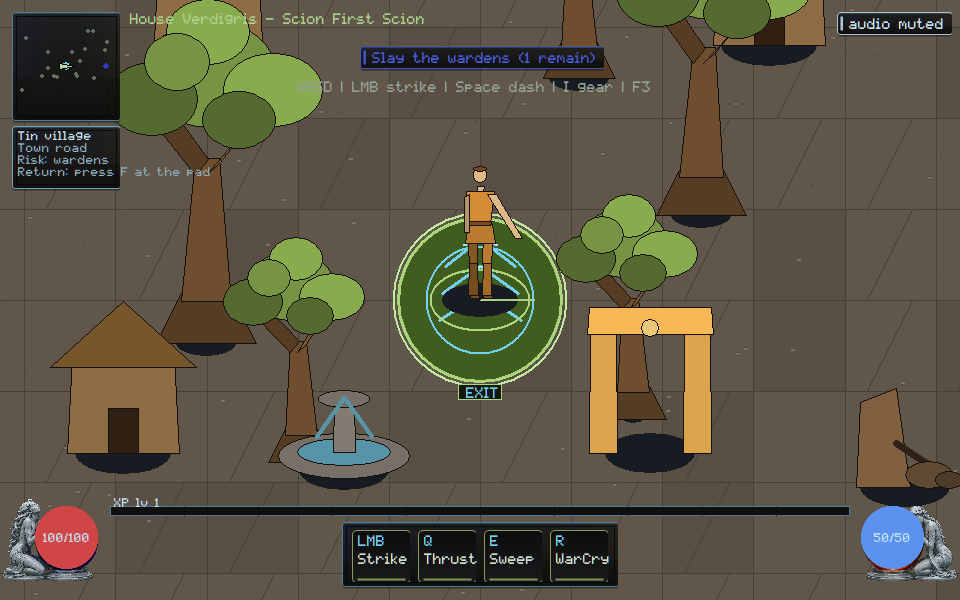
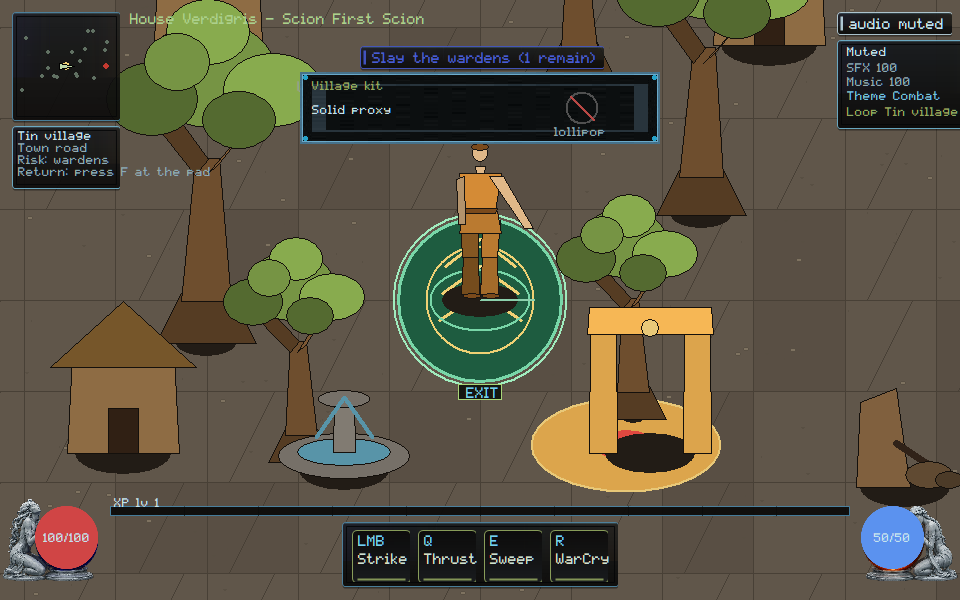
native: name bronze family, village kit, and world hold so magenta, lollipops, and paper dolls cannot certify
Owner strips paint Cooked CC0, Solid proxy, and Ack equip. TOOLS-003 and ITEM identity stay with Kimi.

Changed region(s): [[0.3125, 0.12, 0.6875, 0.66], [0.5312, 0.66, 0.75, 0.84], [0.875, 0.06, 1.0, 0.24]]

diff --git a/native/client/main.cpp b/native/client/main.cpp
@@ -487,6 +487,9 @@ struct ClientState {
   bool death_disconnect_review_strip = false;
   bool build_fixtures_review_strip = false;
   bool headless_contract_review_strip = false;
+  bool bronze_stone_review_strip = false;
+  bool kit_chunk_review_strip = false;
+  bool held_item_review_strip = false;
   bool debug_overlay = false;
   // Last full paint_scene duration in milliseconds (F3 overlay); the honest
   // per-frame budget readout that catches presentation-cost regressions.
@@ -6826,6 +6829,123 @@ void paint_headless_contract_review_strip(ClientState& state, HDC dc, const RECT
   SelectObject(dc, old_font);
 }
 
+void paint_bronze_stone_review_strip(ClientState& state, HDC dc, const RECT& bounds,
+                                     render::List& rl) {
+  if (!state.bronze_stone_review_strip) return;
+  const int s = hud_scale(static_cast<int>(bounds.bottom));
+  const int pane_w = 360 * s;
+  const int pane_h = 72 * s;
+  const int left = (static_cast<int>(bounds.right) - pane_w) / 2;
+  const int top = 72 * s;
+  RECT pane{left, top, left + pane_w, top + pane_h};
+  if (!draw_framekit_nine(state.billboards, dc, state.billboards.fk_panel, pane))
+    skin::panel(dc, pane, skin::kVerdigris, 235, 8.0f);
+  rl.push_back({render::Op::Hud, static_cast<double>(left),
+                static_cast<double>(top), 0.0, 1, "bronze-strip"});
+  SetBkMode(dc, TRANSPARENT);
+  HGDIOBJ old_font = SelectObject(dc, skin::font_small());
+  SetTextColor(dc, skin::kVerdigris);
+  const char* title = verdigris::art::bronze_stone::owner_bronze_stone_label();
+  TextOutA(dc, left + 12 * s, top + 8 * s, title, static_cast<int>(strlen(title)));
+  SetTextColor(dc, skin::kInk);
+  const char* cooked = verdigris::art::bronze_stone::owner_cooked_cc0_label();
+  TextOutA(dc, left + 12 * s, top + 32 * s, cooked, static_cast<int>(strlen(cooked)));
+  const int rx = left + pane_w - 78 * s;
+  const int ry = top + 36 * s;
+  ring_ellipse(dc, rx, ry, 16 * s, 16 * s, RGB(80, 80, 80), 2);
+  draw_line(dc, rx - 12 * s, ry - 12 * s, rx + 12 * s, ry + 12 * s, RGB(185, 72, 69),
+            2);
+  SetTextColor(dc, skin::kInkDim);
+  const char* rejected = "magenta";
+  TextOutA(dc, rx - 28 * s, top + pane_h - 18 * s, rejected,
+           static_cast<int>(strlen(rejected)));
+  rl.push_back({render::Op::Hud, static_cast<double>(left + 12 * s),
+                static_cast<double>(top + 8 * s), 0.0, 1, "art:bronze-stone"});
+  rl.push_back({render::Op::Hud, static_cast<double>(left + 12 * s),
+                static_cast<double>(top + 32 * s), 0.0, 1, "art:cooked-cc0"});
+  rl.push_back({render::Op::Hud, static_cast<double>(rx), static_cast<double>(ry),
+                0.0, 0, "art-strip:magenta-rejected"});
+  SelectObject(dc, old_font);
+}
+
+void paint_kit_chunk_review_strip(ClientState& state, HDC dc, const RECT& bounds,
+                                  render::List& rl) {
+  if (!state.kit_chunk_review_strip) return;
+  const int s = hud_scale(static_cast<int>(bounds.bottom));
+  const int pane_w = 360 * s;
+  const int pane_h = 72 * s;
+  const int left = (static_cast<int>(bounds.right) - pane_w) / 2;
+  const int top = 72 * s;
+  RECT pane{left, top, left + pane_w, top + pane_h};
+  if (!draw_framekit_nine(state.billboards, dc, state.billboards.fk_panel, pane))
+    skin::panel(dc, pane, skin::kVerdigris, 235, 8.0f);
+  rl.push_back({render::Op::Hud, static_cast<double>(left),
+                static_cast<double>(top), 0.0, 1, "kit-strip"});
+  SetBkMode(dc, TRANSPARENT);
+  HGDIOBJ old_font = SelectObject(dc, skin::font_small());
+  SetTextColor(dc, skin::kVerdigris);
+  const char* title = vector_art::owner_village_kit_label();
+  TextOutA(dc, left + 12 * s, top + 8 * s, title, static_cast<int>(strlen(title)));
+  SetTextColor(dc, skin::kInk);
+  const char* proxy = vector_art::owner_solid_proxy_label();
+  TextOutA(dc, left + 12 * s, top + 32 * s, proxy, static_cast<int>(strlen(proxy)));
+  const int rx = left + pane_w - 78 * s;
+  const int ry = top + 36 * s;
+  ring_ellipse(dc, rx, ry, 16 * s, 16 * s, RGB(80, 80, 80), 2);
+  draw_line(dc, rx - 12 * s, ry - 12 * s, rx + 12 * s, ry + 12 * s, RGB(185, 72, 69),
+            2);
+  SetTextColor(dc, skin::kInkDim);
+  const char* rejected = "lollipop";
+  TextOutA(dc, rx - 28 * s, top + pane_h - 18 * s, rejected,
+           static_cast<int>(strlen(rejected)));
+  rl.push_back({render::Op::Hud, static_cast<double>(left + 12 * s),
+                static_cast<double>(top + 8 * s), 0.0, 1, "kit:village"});
+  rl.push_back({render::Op::Hud, static_cast<double>(left + 12 * s),
+                static_cast<double>(top + 32 * s), 0.0, 1, "kit:solid-proxy"});
+  rl.push_back({render::Op::Hud, static_cast<double>(rx), static_cast<double>(ry),
+                0.0, 0, "kit-strip:lollipop-rejected"});
+  SelectObject(dc, old_font);
+}
+
+void paint_held_item_review_strip(ClientState& state, HDC dc, const RECT& bounds,
+                                  render::List& rl) {
+  if (!state.held_item_review_strip) return;
+  const int s = hud_scale(static_cast<int>(bounds.bottom));
+  const int pane_w = 360 * s;
+  const int pane_h = 72 * s;
+  const int left = (static_cast<int>(bounds.right) - pane_w) / 2;
+  const int top = 72 * s;
+  RECT pane{left, top, left + pane_w, top + pane_h};
+  if (!draw_framekit_nine(state.billboards, dc, state.billboards.fk_panel, pane))
+    skin::panel(dc, pane, skin::kVerdigris, 235, 8.0f);
+  rl.push_back({render::Op::Hud, static_cast<double>(left),
+                static_cast<double>(top), 0.0, 1, "held-strip"});
+  SetBkMode(dc, TRANSPARENT);
+  HGDIOBJ old_font = SelectObject(dc, skin::font_small());
+  SetTextColor(dc, skin::kVerdigris);
+  const char* title = verdigris::client::art::owner_world_hold_label();
+  TextOutA(dc, left + 12 * s, top + 8 * s, title, static_cast<int>(strlen(title)));
+  SetTextColor(dc, skin::kInk);
+  const char* ack = verdigris::client::art::owner_ack_equip_label();
+  TextOutA(dc, left + 12 * s, top + 32 * s, ack, static_cast<int>(strlen(ack)));
+  const int rx = left + pane_w - 78 * s;
+  const int ry = top + 36 * s;
+  ring_ellipse(dc, rx, ry, 16 * s, 16 * s, RGB(80, 80, 80), 2);
+  draw_line(dc, rx - 12 * s, ry - 12 * s, rx + 12 * s, ry + 12 * s, RGB(185, 72, 69),
+            2);
+  SetTextColor(dc, skin::kInkDim);
+  const char* rejected = "paper doll";
+  TextOutA(dc, rx - 36 * s, top + pane_h - 18 * s, rejected,
+           static_cast<int>(strlen(rejected)));
+  rl.push_back({render::Op::Hud, static_cast<double>(left + 12 * s),
+                static_cast<double>(top + 8 * s), 0.0, 1, "held-strip:world-hold"});
+  rl.push_back({render::Op::Hud, static_cast<double>(left + 12 * s),
+                static_cast<double>(top + 32 * s), 0.0, 1, "held-strip:ack-equip"});
+  rl.push_back({render::Op::Hud, static_cast<double>(rx), static_cast<double>(ry),
+                0.0, 0, "held-strip:paper-doll-rejected"});
+  SelectObject(dc, old_font);
+}
+
 const char* attack_stage_label(vector_art::Pose::AttackStage stage) {
   switch (stage) {
     case vector_art::Pose::AttackStage::Windup:
@@ -7861,6 +7981,9 @@ void paint_scene(ClientState& state, HDC dc, const RECT& bounds) {
   paint_death_disconnect_review_strip(state, dc, bounds, rl);
   paint_build_fixtures_review_strip(state, dc, bounds, rl);
   paint_headless_contract_review_strip(state, dc, bounds, rl);
+  paint_bronze_stone_review_strip(state, dc, bounds, rl);
+  paint_kit_chunk_review_strip(state, dc, bounds, rl);
+  paint_held_item_review_strip(state, dc, bounds, rl);
 
   state.render_list = std::move(rl);
   if (state.debug_overlay) {
@@ -11105,8 +11228,21 @@ int scenario_kit_chunk() {
     return scenario_failures;
   }
   const std::string png = dir + "\\kit-chunk-960x600.png";
+  state.kit_chunk_review_strip = true;
   scenario_check(reference_present(state, 960, 600, png),
                  "kit-chunk: village kit capture written");
+  bool village = false;
+  bool proxy = false;
+  bool lollipop = false;
+  for (const auto& item : state.render_list) {
+    if (item.op != render::Op::Hud) continue;
+    if (item.label == "kit:village") village = true;
+    if (item.label == "kit:solid-proxy") proxy = true;
+    if (item.label == "kit-strip:lollipop-rejected") lollipop = true;
+  }
+  scenario_check(village && proxy,
+                 "kit-chunk: live HUD names Village kit and Solid proxy");
+  scenario_check(lollipop, "kit-chunk: live HUD rejects a lollipop tree");
   return scenario_failures;
 }
 
@@ -11704,8 +11840,21 @@ int scenario_bronze_stone() {
     return scenario_failures;
   }
   const std::string png = dir + "\\bronze-stone-960x600.png";
+  state.bronze_stone_review_strip = true;
   scenario_check(reference_present(state, 960, 600, png),
                  "bronze-stone: cooked family capture written");
+  bool family_strip = false;
+  bool cooked = false;
+  bool magenta_hud = false;
+  for (const auto& item : state.render_list) {
+    if (item.op != render::Op::Hud) continue;
+    if (item.label == "art:bronze-stone") family_strip = true;
+    if (item.label == "art:cooked-cc0") cooked = true;
+    if (item.label == "art-strip:magenta-rejected") magenta_hud = true;
+  }
+  scenario_check(family_strip && cooked,
+                 "bronze-stone: live HUD names Bronze stone and Cooked CC0");
+  scenario_check(magenta_hud, "bronze-stone: live HUD rejects magenta");
   return scenario_failures;
 }
 
@@ -14057,8 +14206,21 @@ int scenario_held_item() {
     return scenario_failures;
   }
   const std::string png = dir + "\\held-item-960x600.png";
+  state.held_item_review_strip = true;
   scenario_check(reference_present(state, 960, 600, png),
                  "held-item: world-hold capture written");
+  bool world_strip = false;
+  bool ack_strip = false;
+  bool doll_rejected = false;
+  for (const auto& item : state.render_list) {
+    if (item.op != render::Op::Hud) continue;
+    if (item.label == "held-strip:world-hold") world_strip = true;
+    if (item.label == "held-strip:ack-equip") ack_strip = true;
+    if (item.label == "held-strip:paper-doll-rejected") doll_rejected = true;
+  }
+  scenario_check(world_strip && ack_strip,
+                 "held-item: live HUD names World hold and Ack equip");
+  scenario_check(doll_rejected, "held-item: live HUD rejects paper doll");
   return scenario_failures;
 }
 

diff --git a/native/client/vector_art.hpp b/native/client/vector_art.hpp
@@ -767,6 +767,9 @@ inline bool lollipop_tree_fails_review(int clusters, bool root_flare, bool fork)
   return clusters < 4 || !root_flare || !fork;
 }
 
+inline const char* owner_village_kit_label() { return "Village kit"; }
+inline const char* owner_solid_proxy_label() { return "Solid proxy"; }
+
 inline void tree(HDC dc, int cx, int base_y, int height_px, double sway_phase,
                  COLORREF leaf, COLORREF trunk) {
   const double s = height_px / 100.0;

diff --git a/native/client/assets/production/bronze_stone.hpp b/native/client/assets/production/bronze_stone.hpp
@@ -64,6 +64,9 @@ inline std::uint32_t sample_rim(int u, int v) {
 
 inline bool is_placeholder(std::uint32_t rgba) { return rgba == kPlaceholder; }
 
+inline const char* owner_bronze_stone_label() { return "Bronze stone"; }
+inline const char* owner_cooked_cc0_label() { return "Cooked CC0"; }
+
 #ifdef _WIN32
 inline COLORREF gdi(std::uint32_t rrggbb) {
   return RGB(static_cast<int>((rrggbb >> 16) & 0xFF),

diff --git a/native/client/assets/production/show-one-equipped-item-on-the-actor.hpp b/native/client/assets/production/show-one-equipped-item-on-the-actor.hpp
@@ -17,4 +17,7 @@ inline bool paper_doll_only_fails_review(bool seat_filled, bool world_held) {
   return seat_filled && !world_held;
 }
 
+inline const char* owner_world_hold_label() { return "World hold"; }
+inline const char* owner_ack_equip_label() { return "Ack equip"; }
+
 }  // namespace verdigris::client::art

diff --git a/docs/execution/CROSSWALK.md b/docs/execution/CROSSWALK.md
@@ -134,10 +134,12 @@ VG-PERF-006: `warm_combat_glyphs` before first strike; scenario
 `hitch-warmup` prints cold/warm/prepared and fails if cold is omitted.
 VG-UI-007: tooltip titles use ink-on-panel contrast plus a triangular mark.
 VG-ART-004: tin village kit (all five scenery kinds); solid pieces emit
-`collision-proxy:*`; dressing gate does not. Dwellings are mudbrick/thatch
-huts; ruins are a broken wall with rubble; shrines are a fountain; gates
-are two pillars with a lintel. Shrine and gate sit inside the spawn
-capture. Scenario `kit-chunk`. Evidence `docs/execution/evidence/VG-ART-004.json`.
+`collision-proxy:*`; dressing gate does not. Owner strip paints Village
+kit / Solid proxy. A lollipop tree cannot certify. Dwellings are
+mudbrick/thatch huts; ruins are a broken wall with rubble; shrines are a
+fountain; gates are two pillars with a lintel. Shrine and gate sit inside
+the spawn capture. Scenario `kit-chunk`. Evidence
+`docs/execution/evidence/VG-ART-004.json`.
 VG-ART-006: WarCry family `vfx-weave:cast|travel|impact|cancel`; radius
 capped vs screen-fill; telegraph remains. Scenario `weave-vfx`.
 Evidence `docs/execution/evidence/VG-ART-006.json`.
@@ -165,8 +167,9 @@ external concept-art token cannot substitute, a skeleton
 and a chibi (1/3) head cannot pass as adult. Scenario `visual-target`.
 Evidence `docs/execution/evidence/VG-ART-001.json`.
 VG-ART-002: bronze/stone albedo+rim maps with SPDX CC0; magenta fill
-cannot ship. Village kit uses the family. Scenario `bronze-stone`.
-Evidence `docs/execution/evidence/VG-ART-002.json`.
+cannot ship. Owner strip paints Bronze stone / Cooked CC0. Village kit
+uses the family. Scenario `bronze-stone`. Evidence
+`docs/execution/evidence/VG-ART-002.json`.
 VG-GPU-003: layout v1 software program `software-albedo-rim-v1`. Wrong
 backend or stale layout fails; failed load does not paint. Scenario
 `shader-bindings`. Evidence `docs/execution/evidence/VG-GPU-003.json`.
@@ -286,8 +289,9 @@ HUD ops. Owner paint uses Base/Gear, not `src` jargon. Slice builds on
 the sheet are role · gear chips; tactics stay on HUD ops. A dormant
 conditional cannot fold into Attack. Core STAT stays Kimi.
 VG-UI-002: `pack-drag` — reject cannot lose, duplicate, or silently equip.
-VG-ART-005: `held-item` — world actor hold must change on equip. A filled
-paper-doll seat with `held:none` cannot pass.
+VG-ART-005: `held-item` — world actor hold must change on equip. Owner
+strip paints World hold / Ack equip. A filled paper-doll seat with
+`held:none` cannot pass.
 
 ## VG-GOV-002 draft (not owner-stamped)
 

diff --git a/docs/rebuild/HANDOFF.md b/docs/rebuild/HANDOFF.md
@@ -1,5 +1,18 @@
 # Native reconstitution handoff
 
+## 2026-09-06 — bronze family, village kit, world hold (Cursor)
+
+- VG-ART-002: owner Bronze stone strip paints Cooked CC0. Magenta cannot
+  certify. Village kit still samples the SPDX CC0 albedo/rim family.
+  VG-TOOLS-003 cook pipeline stays Kimi.
+- VG-ART-004: owner Village kit strip paints Solid proxy. A lollipop tree
+  cannot certify. Live tin village still ships hut, fountain shrine,
+  road gate, ruin, and forked trees with published solids.
+- VG-ART-005: owner World hold strip paints Ack equip. A paper-doll seat
+  cannot certify world appearance. ITEM identity stays Kimi.
+- Scenarios `bronze-stone` / `kit-chunk` / `held-item` PASS. Captures
+  viewed. Not Owner Demo. Not TASK-0108.
+
 ## 2026-09-06 — three slice fixtures and headless contract (Cursor)
 
 - VG-BUILD-001: owner Three slices strip paints Reach pike. Tint clones

diff --git a/orchestration/CURSOR_KIMI_LANES.md b/orchestration/CURSOR_KIMI_LANES.md
@@ -667,3 +667,14 @@ Please move off that branch before taking a new native path.
 - **Stay off** `native/client/main.cpp` and `docs/execution/**`. SEC/CORE
   remain yours. GOV-002 still unstamped.
 
+## Cursor reply (2026-09-06, bronze family, village kit, world hold)
+
+- **Lease:** `main.cpp` still **ACTIVE**. `remote_session.cpp` stays
+  **RELEASED**. Do not re-spec TASK-0108 core/wire (`3b929637`).
+- **Landed this push:** VG-ART-002 — Bronze stone / Cooked CC0; magenta
+  rejected. VG-ART-004 — Village kit / Solid proxy; lollipop rejected.
+  VG-ART-005 — World hold / Ack equip; paper doll rejected. Captures
+  viewed. TOOLS-003 and ITEM identity stay yours. Not Owner Demo.
+- **Stay off** `native/client/main.cpp` and `docs/execution/**`. SEC/CORE
+  remain yours. GOV-002 still unstamped.
+
